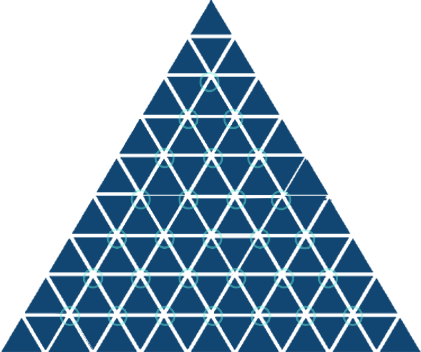
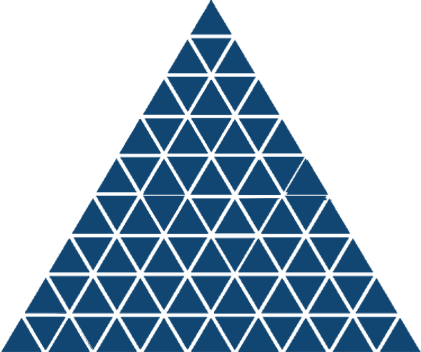
goddamn the triangles

diff --git a/Assets/_scripts/GUI/FuelPanel.cs b/Assets/_scripts/GUI/FuelPanel.cs
@@ -36,6 +36,11 @@ public class FuelPanel : MonoBehaviour
 		mineralCFill.fillAmount = 0;
 
 		probesParent = transform.Find("panel_triangle/image_triangle-segments");
+
+		for (int a = 1; a < 8; a++)
+			for (int c = 1; c < 8; c++)
+				if ((a + c) >= 2 && (a + c) <= 8)
+					AddProbe(new int[] {a, 0, c}, true);
 	}
 
 	private void Start ()
@@ -64,9 +69,9 @@ public class FuelPanel : MonoBehaviour
 		return new int[3] { (int)mineralASlider.value, (int)mineralBSlider.value, (int)mineralCSlider.value };
 	}
 
-	private void AddProbe (int[] probe)
+	private void AddProbe (int[] probe, bool spot = false)
 	{
-		var synthProbe = BaseView.AddUIElement("synth-probe", probesParent).GetComponent<SynthProbe>();
-		synthProbe.Initialize(probe);
+		var synthProbe = BaseView.AddUIElement(spot ? "probe-spot" : "synth-probe", probesParent).GetComponent<SynthProbe>();
+		synthProbe.Initialize(probe, spot);
 	}
 }

diff --git a/Assets/_scripts/GUI/SynthProbe.cs b/Assets/_scripts/GUI/SynthProbe.cs
@@ -11,18 +11,20 @@ public class SynthProbe : MonoBehaviour
 	private RectTransform trs;
 	private RectTransform parentTRS;
 
-	public void Initialize (int[] probe)
+	public void Initialize (int[] probe, bool spot = false)
 	{
 		image = GetComponent<Image>();
 		trs = GetComponent<RectTransform>();
 		parentTRS = trs.parent as RectTransform;
 
+		trs.anchoredPosition = CalculateProbePos(probe[0], probe[2]);
+
+		if (spot) return;
+
 		var probeType = WorkshopController.MeasureProbe(probe);
 		image.sprite = probeType == ProbeType.True ? TrueProbeSprite
 			: probeType == ProbeType.Close ? CloseProbeSprite
 			: WrongProbeSprite;
-
-		trs.anchoredPosition = CalculateProbePos(probe[0], probe[2]);
 	}
 
 	private Vector2 CalculateProbePos (float cA, float cC)
